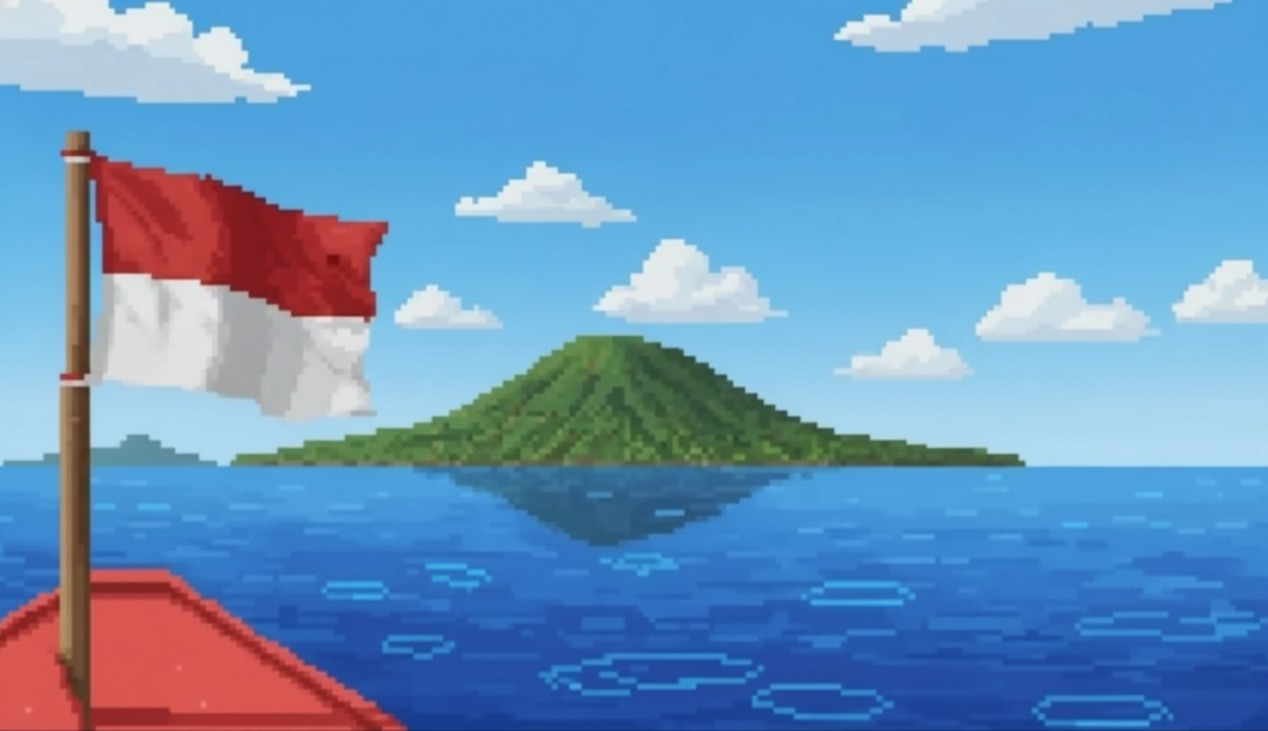
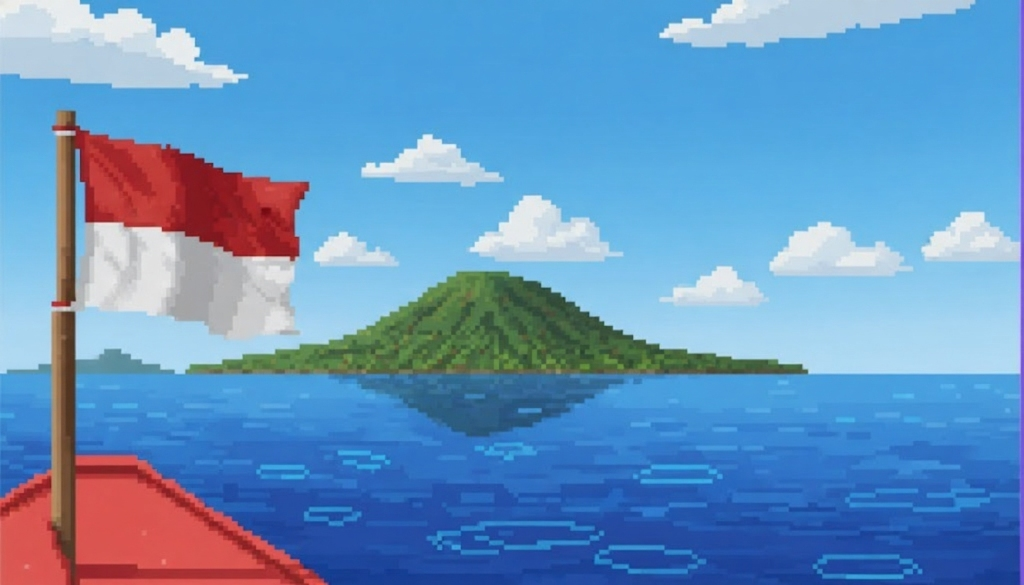
ngulang ygy ini punya gaddiel

diff --git a/GameWorld.java b/GameWorld.java
@@ -1,5 +1,6 @@
 import greenfoot.*;
 
+
 public class GameWorld extends World {
     // --- HUD State ---
     private int score = 0;
@@ -22,11 +23,14 @@ public class GameWorld extends World {
         
          // --- KODE UNTUK MEMPERBAIKI LATAR BELAKANG ---
 
+
         // 2. Ambil gambar asli (GANTI "nama_background_menu.png" DENGAN NAMA FILE ANDA)
         GreenfootImage bg = new GreenfootImage("24.jpg"); 
 
+
         // 3. Paksa gambar untuk pas dengan ukuran dunia (648x468)
         bg.scale(960, 540);
+
 
         // 4. Atur gambar yang sudah dikecilkan
         setBackground(bg);
@@ -38,10 +42,10 @@ public class GameWorld extends World {
         int boatY = 120;
 
         boat = new Boat();
-        addObject(boat, boatX, boatY);
+        addObject(boat, boatX, 250);
 
         hook = new Hook(boat);              // hook “terikat” ke boat
-        addObject(hook, boatX, boatY + 60);
+        addObject(hook, boatX, boatY + 180);
 
         startTimer(300);                      // mulai timer 60s (ubah via Level nanti)
     }
@@ -80,15 +84,15 @@ public class GameWorld extends World {
         showText("Time: "  + timeLeft,230, 20);
     }
     
-    private void spawnFish() {
-    boolean rare = Greenfoot.getRandomNumber(100) < 15; // 15% rare
-    Fish f = new Fish(rare);
-
-    int side = Greenfoot.getRandomNumber(2); // 0 kiri, 1 kanan
-    int y = Greenfoot.getRandomNumber(getHeight() - 200) + 200; // area air
-    int x = (side == 0) ? -20 : getWidth() + 20;
-
-    addObject(f, x, y);
-}
+        private void spawnFish() {
+        boolean rare = Greenfoot.getRandomNumber(100) < 15; // 15% rare
+        Fish f = new Fish(rare);
+    
+        int side = Greenfoot.getRandomNumber(2); // 0 kiri, 1 kanan
+        int y = Greenfoot.getRandomNumber(getHeight() - 200) + 200; // area air
+        int x = (side == 0) ? -20 : getWidth() + 20;
+    
+        addObject(f, x, y);
+    }
 
 }

diff --git a/Menu.java b/Menu.java
@@ -17,32 +17,41 @@ public class Menu extends World
     {    
         // Create a new world with 600x400 cells with a cell size of 1x1 pixels.
         // 1. Atur ukuran dunia agar SAMA dengan GameWorld
-        super(648, 468, 1); 
-        
+        super(960, 540, 1); 
+
         // --- KODE UNTUK MEMPERBAIKI LATAR BELAKANG ---
-        
+
         // 2. Ambil gambar asli (GANTI "nama_background_menu.png" DENGAN NAMA FILE ANDA)
         GreenfootImage bg = new GreenfootImage("menu_ui_1.jpg"); 
-        
+
         // 3. Paksa gambar untuk pas dengan ukuran dunia (648x468)
-        bg.scale(648, 468);
-        
+        bg.scale(960, 540);
+
         // 4. Atur gambar yang sudah dikecilkan
         setBackground(bg);
-        
+
         // --- AKHIR DARI PERUBAHAN ---
 
         // Panggil method untuk menambahkan tombol
         ButtonMenu();
+        prepare();
+    }
+
+    private void ButtonMenu(){
+        BtnTutor Tutorial = new BtnTutor();
+        BtnStart Start = new BtnStart();
+        BtnExit Exit = new BtnExit();
+
+        addObject(Tutorial, 220, 445); // (actor, x, y)
+        addObject(Start,    475, 440); // (actor, x, y)
+        addObject(Exit,     740, 450); // (actor, x, y)
     }
     
-    private void ButtonMenu(){
-    BtnTutor Tutorial = new BtnTutor();
-    BtnStart Start = new BtnStart();
-    BtnExit Exit = new BtnExit();
-    
-    addObject(Tutorial, 103, 350); // (actor, x, y)
-    addObject(Start,    305, 350); // (actor, x, y)
-    addObject(Exit,     508, 350); // (actor, x, y)
+    /**
+     * Prepare the world for the start of the program.
+     * That is: create the initial objects and add them to the world.
+     */
+    private void prepare()
+    {
     }
 }

diff --git a/GameMode.java b/GameMode.java
@@ -1,45 +1,38 @@
 import greenfoot.*;  // (World, Actor, GreenfootImage, Greenfoot and MouseInfo)
 
 /**
- * Write a description of class tutorialkeyboard here.
+ * Write a description of class GameMode here.
  * 
  * @author (your name) 
  * @version (a version number or a date)
  */
-public class tutorialkeyboard extends World
+public class GameMode extends World
 {
 
     /**
-     * Constructor for objects of class tutorialkeyboard.
+     * Constructor for objects of class GameMode.
      * 
      */
-    public tutorialkeyboard()
+    public GameMode()
     {    
         // Create a new world with 600x400 cells with a cell size of 1x1 pixels.
         // 1. Atur ukuran dunia agar SAMA dengan GameWorld
-        super(648, 468, 1); 
+        super(960, 540, 1); 
         
         // --- KODE UNTUK MEMPERBAIKI LATAR BELAKANG ---
         
         // 2. Ambil gambar asli (GANTI "nama_background_menu.png" DENGAN NAMA FILE ANDA)
-        GreenfootImage bg = new GreenfootImage("4.jpg"); 
+        GreenfootImage bg = new GreenfootImage("background_mode.png"); 
         
         // 3. Paksa gambar untuk pas dengan ukuran dunia (648x468)
-        bg.scale(648, 468);
+        bg.scale(960, 540);
         
         // 4. Atur gambar yang sudah dikecilkan
         setBackground(bg);
         
-        Buttonnav();
-    }
-    
-    private void Buttonnav(){
-    nextbut next = new nextbut();
-    prevbut prev = new prevbut();
-    
-    addObject(prev, 103, 399); // (actor, x, y)
-    addObject(next,    542, 399); // (actor, x, y)
+        // --- AKHIR DARI PERUBAHAN ---
+
+        // Panggil method untuk menambahkan tombol
+        //ButtonMenu(); 
     }
 }
-    
-

diff --git a/tutorialmouse.java b/tutorialmouse.java
@@ -15,31 +15,7 @@ public class tutorialmouse extends World
      */
     public tutorialmouse()
     {    
-         // Create a new world with 600x400 cells with a cell size of 1x1 pixels.
-        // 1. Atur ukuran dunia agar SAMA dengan GameWorld
-        super(960, 540, 1); 
-        
-        // --- KODE UNTUK MEMPERBAIKI LATAR BELAKANG ---
-        
-        // 2. Ambil gambar asli (GANTI "nama_background_menu.png" DENGAN NAMA FILE ANDA)
-        GreenfootImage bg = new GreenfootImage("5.jpg"); 
-        
-        // 3. Paksa gambar untuk pas dengan ukuran dunia (648x468)
-        bg.scale(960, 540);
-        
-        // 4. Atur gambar yang sudah dikecilkan
-        setBackground(bg);
-        
-        Buttonnav();
-    
+        // Create a new world with 600x400 cells with a cell size of 1x1 pixels.
+        super(600, 400, 1); 
     }
-    
-        private void Buttonnav(){
-    nextbut2 next2 = new nextbut2();
-    prevbut2 prev2 = new prevbut2();
-    
-    addObject(prev2, 103, 467); // (actor, x, y)
-    addObject(next2,    864, 467); // (actor, x, y)
-    }
-    
 }

diff --git a/BtnMedium.java b/BtnMedium.java
@@ -1,0 +1,19 @@
+import greenfoot.*;  // (World, Actor, GreenfootImage, Greenfoot and MouseInfo)
+
+/**
+ * Write a description of class BtnMedium here.
+ * 
+ * @author (your name) 
+ * @version (a version number or a date)
+ */
+public class BtnMedium extends Actor
+{
+    /**
+     * Act - do whatever the BtnMedium wants to do. This method is called whenever
+     * the 'Act' or 'Run' button gets pressed in the environment.
+     */
+    public void act()
+    {
+        // Add your action code here.
+    }
+}

diff --git a/BtnBack.java b/BtnBack.java
@@ -1,0 +1,19 @@
+import greenfoot.*;  // (World, Actor, GreenfootImage, Greenfoot and MouseInfo)
+
+/**
+ * Write a description of class BtnBack here.
+ * 
+ * @author (your name) 
+ * @version (a version number or a date)
+ */
+public class BtnBack extends Actor
+{
+    /**
+     * Act - do whatever the BtnBack wants to do. This method is called whenever
+     * the 'Act' or 'Run' button gets pressed in the environment.
+     */
+    public void act()
+    {
+        // Add your action code here.
+    }
+}

diff --git a/BtnEasy.java b/BtnEasy.java
@@ -1,0 +1,19 @@
+import greenfoot.*;  // (World, Actor, GreenfootImage, Greenfoot and MouseInfo)
+
+/**
+ * Write a description of class BtnEasy here.
+ * 
+ * @author (your name) 
+ * @version (a version number or a date)
+ */
+public class BtnEasy extends Actor
+{
+    /**
+     * Act - do whatever the BtnEasy wants to do. This method is called whenever
+     * the 'Act' or 'Run' button gets pressed in the environment.
+     */
+    public void act()
+    {
+        // Add your action code here.
+    }
+}

diff --git a/BtnHard.java b/BtnHard.java
@@ -1,0 +1,19 @@
+import greenfoot.*;  // (World, Actor, GreenfootImage, Greenfoot and MouseInfo)
+
+/**
+ * Write a description of class BtnHard here.
+ * 
+ * @author (your name) 
+ * @version (a version number or a date)
+ */
+public class BtnHard extends Actor
+{
+    /**
+     * Act - do whatever the BtnHard wants to do. This method is called whenever
+     * the 'Act' or 'Run' button gets pressed in the environment.
+     */
+    public void act()
+    {
+        // Add your action code here.
+    }
+}

diff --git a/nextbut.java b/nextbut.java
@@ -22,9 +22,5 @@ public class nextbut extends Actor
     
     public void act()
     {
-        if (Greenfoot.mouseClicked(this)) 
-        {
-            Greenfoot.setWorld(new tutorialmouse());
-        }
     }
 }

diff --git a/Boat.java b/Boat.java
@@ -1,7 +1,7 @@
 import greenfoot.*;
 
 public class Boat extends Actor {
-    private int speed = 3;
+    private int speed = 6;
 
     public Boat() {
         // ganti bila perlu: setImage("boat.png");
